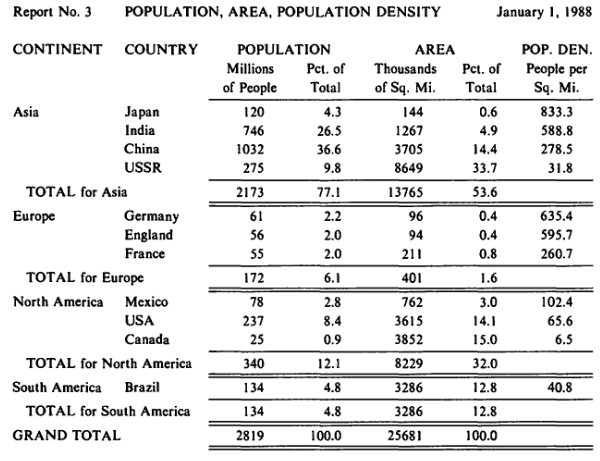
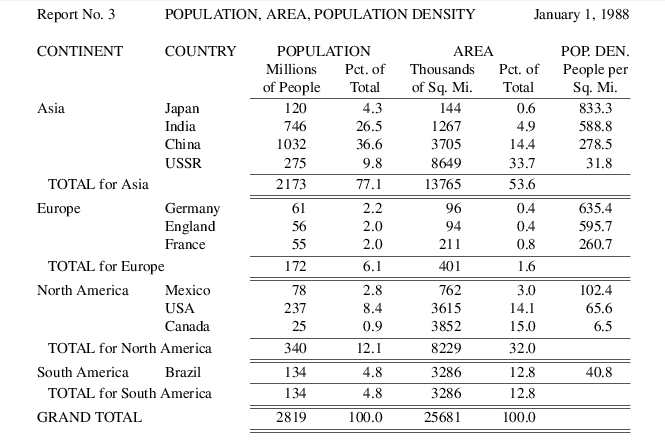
report3.png 更加清晰.
原来的图片是直接从英文原版中截得, 新的图片是我自己生成表格, 然后再从
ps 文件中截图, 这样截得的图更加清晰, 而且还修改了原来程序中的一个小错误.

diff --git a/reports_and_databases.tex b/reports_and_databases.tex
@@ -394,7 +394,7 @@ Report No. 3       POPULATION, AREA, POPULATION DENSITY         January 1, 1988
     END {
         totalprint()
         print ".T&\nl s n n n n n."
-        printf("GRAND TOTAL\t%d\t%.1f\t%d\t%.1f\n",
+        printf("GRAND TOTAL\t\t%d\t%.1f\t%d\t%.1f\n",
             gpop, gpoppct, garea, gareapct)
         print "", "=", "=", "=", "=", "="
         print ".TE"
@@ -411,9 +411,10 @@ Report No. 3       POPULATION, AREA, POPULATION DENSITY         January 1, 1988
 \end{awkcode}
 \marginpar{97}
 如果把 \verb'form4' 的输出输送给 \verb'tbl', 输出的表格是:
-% TODO 应该用 LaTeX 来生成下面这张报表
+% awk -f prep3 pass=1 countries pass=2 countries | awk -f form4 |
+% tbl | troff | grops > out.ps
 \begin{center}
-    \includegraphics[scale=0.7]{./images/report3.png}
+    \includegraphics[scale=0.72]{./images/report3.png}
 \end{center}
 
 如果可能的话, 我们建议构造一个程序来格式化表格, 实现一个像 \verb'tbl' 这样 
